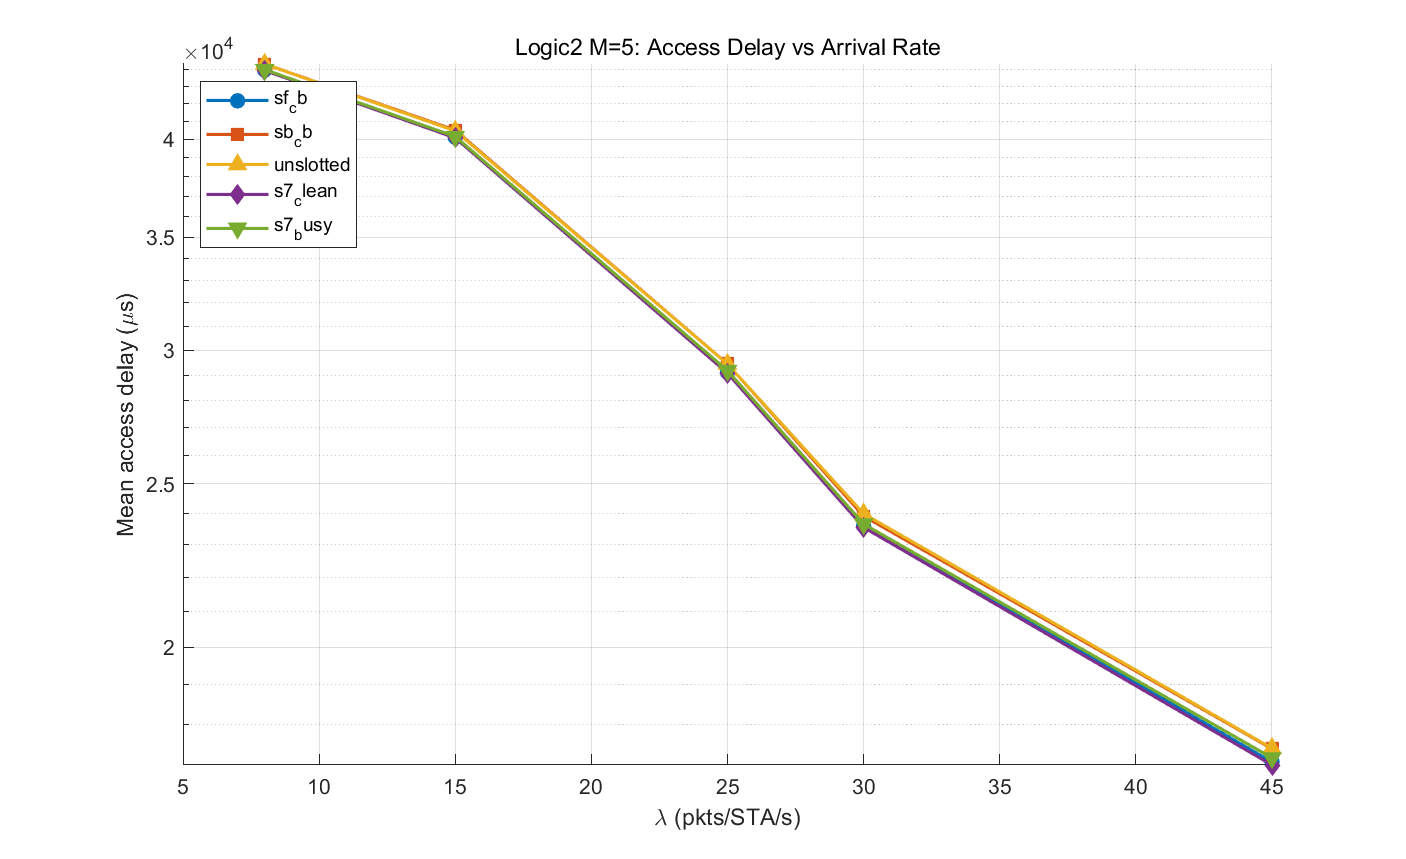
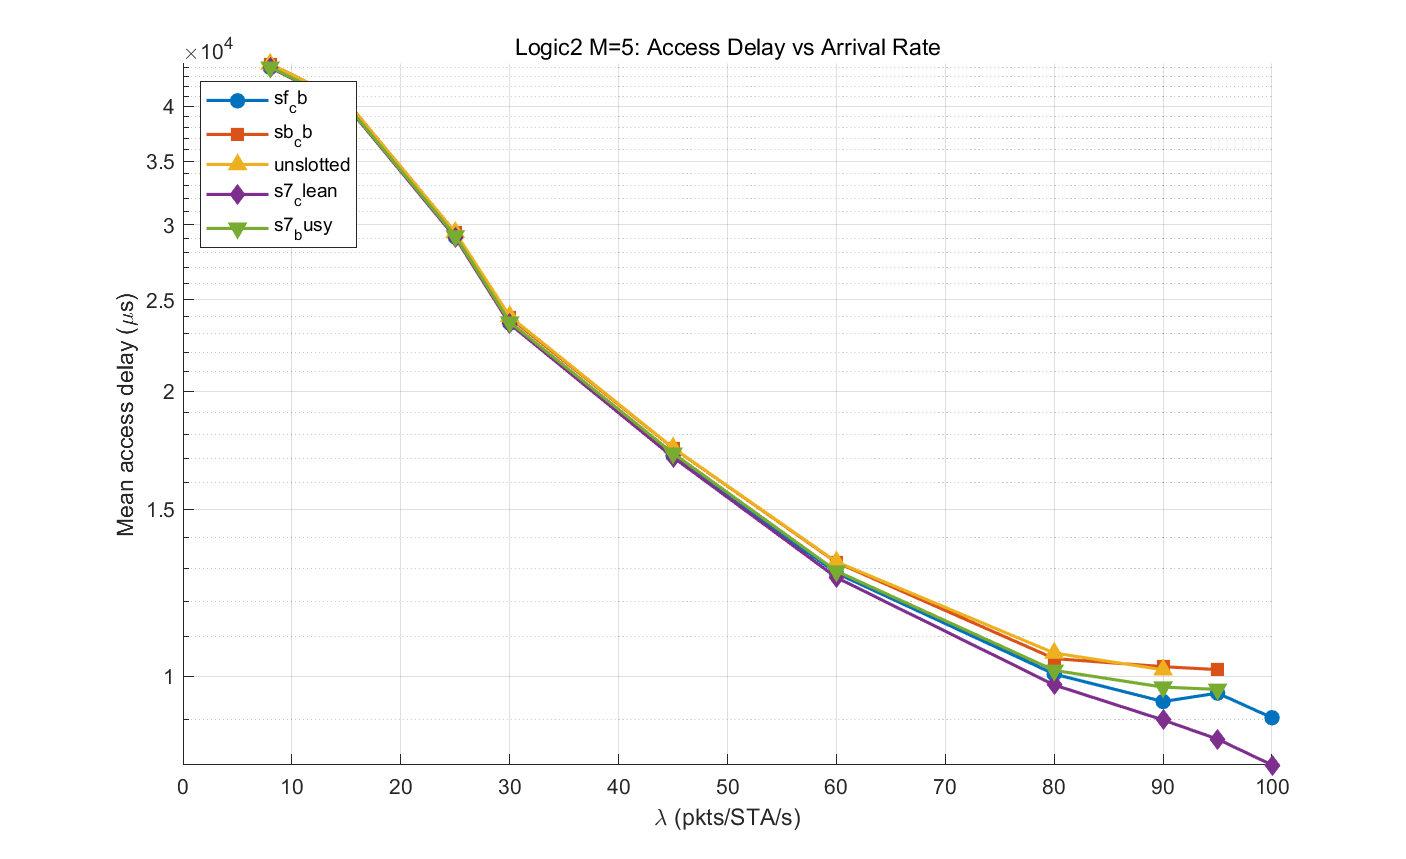
补跑 logic2 M=5 高负载 λ=60/80/90/95/100 并合并结果

diff --git a/run_logic2_m5_ext.m b/run_logic2_m5_ext.m
@@ -1,0 +1,106 @@
+function run_logic2_m5_ext()
+%RUN_LOGIC2_M5_EXT 补跑 logic2 batch_M M=5 的高 λ 点
+%   λ=[60,80,90,95,100]，5 协议，4 worker
+%   合并进 logic2/lambda_sweep/M5 并更新 merged_summary 和图
+
+    root = fullfile(pwd,'0819_R9_results');
+    out2 = fullfile(root,'logic2','lambda_sweep');
+    protocols = {'sf_cb','sb_cb','unslotted','s7_clean','s7_busy'};
+    new_lams = [60, 80, 90, 95, 100];
+
+    cfg = default_experiment_config('analysis');
+    cfg.txop_mode = 'batch_M';
+    cfg.protocols = protocols;
+    cfg.M_values = 5;
+    cfg.lambda_values = new_lams;
+    cfg.load_modes = {'fixed_packet'};
+    cfg.resume = true;
+    cfg.run_preflight_tests = false;
+    cfg.n_eval_runs = 3;
+    cfg.condition_timeout_s = 1800;
+    cfg.n_workers = 1;
+    cfg.q_multi_basin_tuning = true;
+    qgrid = build_piecewise_q_grid(NaN);
+    cfg.q_coarse = qgrid;
+    cfg.protocol_q_grids_enabled = true;
+    for p = 1:numel(protocols)
+        cfg.protocol_q_grids.(protocols{p}) = qgrid;
+    end
+    cfg.stability_rate_tolerance = 0.05;
+    cfg.stability_censor_tolerance = 0.01;
+    cfg.stability_slope_fraction = 0.05;
+    cfg.stability_require_slope = true;
+    cfg.output_dir = fullfile('results_v2','R9_logic2_lamM5_ext3');
+    exp = run_experiment(cfg);
+    fprintf('补跑完成: %s\n', exp.output_dir);
+
+    new = readtable(fullfile(exp.output_dir,'summary.csv'),'VariableNamingRule','preserve');
+    fprintf('新增行数: %d\n', height(new));
+    for i=1:height(new)
+        fprintf('  %s lam=%d delay=%.1f stable=%.2f\n', char(new.protocol(i)), ...
+            new.lambda_base(i), new.mean_delay_us(i), new.stable_fraction(i));
+    end
+
+    % 合并进 M5/summary.csv
+    m5_path = fullfile(out2,'M5','summary.csv');
+    old = readtable(m5_path,'VariableNamingRule','preserve');
+    copyfile(m5_path, [m5_path '.bak_ext_' datestr(now,'yyyymmdd_HHMMSS')]);
+    new = new(:, old.Properties.VariableNames);
+    merged_m5 = [old; new];
+    merged_m5 = unique(merged_m5,'rows','stable');
+    writetable(merged_m5, m5_path);
+    fprintf('M5/summary.csv 已更新，总行数 %d\n', height(merged_m5));
+
+    % 重画 M5 图
+    plot_delay_vs_lambda(merged_m5, fullfile(out2,'M5','figures'), 'Logic2 M=5');
+    theory_validation(m5_path, fullfile(out2,'M5'));
+
+    % 更新 merged_summary.csv（重新拼所有 M）
+    merged_path = fullfile(out2,'merged_summary.csv');
+    old_merged = readtable(merged_path,'VariableNamingRule','preserve');
+    copyfile(merged_path, [merged_path '.bak_ext_' datestr(now,'yyyymmdd_HHMMSS')]);
+    m1 = readtable(fullfile(out2,'M1','summary.csv'),'VariableNamingRule','preserve');
+    m5 = readtable(m5_path,'VariableNamingRule','preserve');
+    if ~ismember('fixed_M_baseline', m5.Properties.VariableNames)
+        m5.fixed_M_baseline = false(height(m5),1);
+    end
+    m5 = m5(:, old_merged.Properties.VariableNames);
+    merged = [m1; m5];
+    merged = unique(merged,'rows','stable');
+    writetable(merged, merged_path);
+    fprintf('merged_summary.csv 已更新，总行数 %d\n', height(merged));
+    fprintf('\n===== 完成 =====\n');
+end
+
+function plot_delay_vs_lambda(data, fig_dir, title_prefix)
+    if ~isfolder(fig_dir), mkdir(fig_dir); end
+    protocols = unique(data.protocol,'stable');
+    colors = lines(numel(protocols));
+    markers = {'o','s','^','d','v','p','h'};
+    figure('Position',[100 100 900 550],'Visible','off'); hold on;
+    for pi=1:numel(protocols)
+        proto=char(protocols(pi));
+        rows=data(string(data.protocol)==proto,:);
+        lam=double(rows.lambda_base); delay=double(rows.mean_delay_us);
+        [lam,idx]=sort(lam); delay=delay(idx);
+        plot(lam,delay,'-o','Color',colors(pi,:),'Marker',markers{pi},...
+            'MarkerFaceColor',colors(pi,:),'LineWidth',1.5,'DisplayName',proto);
+    end
+    hold off; xlabel('\lambda (pkts/STA/s)'); ylabel('Mean end-to-end delay (\mus)');
+    title(sprintf('%s: Delay vs Arrival Rate',title_prefix));
+    legend('Location','northwest'); grid on; set(gca,'YScale','log');
+    saveas(gcf,fullfile(fig_dir,'delay_vs_lambda.png')); close(gcf);
+    figure('Position',[100 100 900 550],'Visible','off'); hold on;
+    for pi=1:numel(protocols)
+        proto=char(protocols(pi));
+        rows=data(string(data.protocol)==proto,:);
+        lam=double(rows.lambda_base); acc=double(rows.mean_access_delay_us);
+        [lam,idx]=sort(lam); acc=acc(idx);
+        plot(lam,acc,'-s','Color',colors(pi,:),'Marker',markers{pi},...
+            'MarkerFaceColor',colors(pi,:),'LineWidth',1.5,'DisplayName',proto);
+    end
+    hold off; xlabel('\lambda (pkts/STA/s)'); ylabel('Mean access delay (\mus)');
+    title(sprintf('%s: Access Delay vs Arrival Rate',title_prefix));
+    legend('Location','northwest'); grid on; set(gca,'YScale','log');
+    saveas(gcf,fullfile(fig_dir,'access_delay_vs_lambda.png')); close(gcf);
+end
